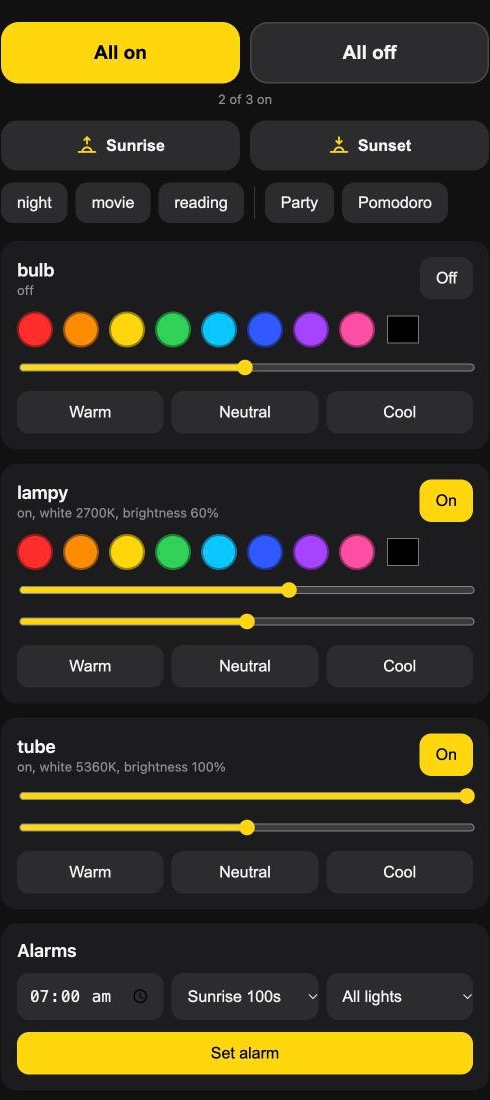
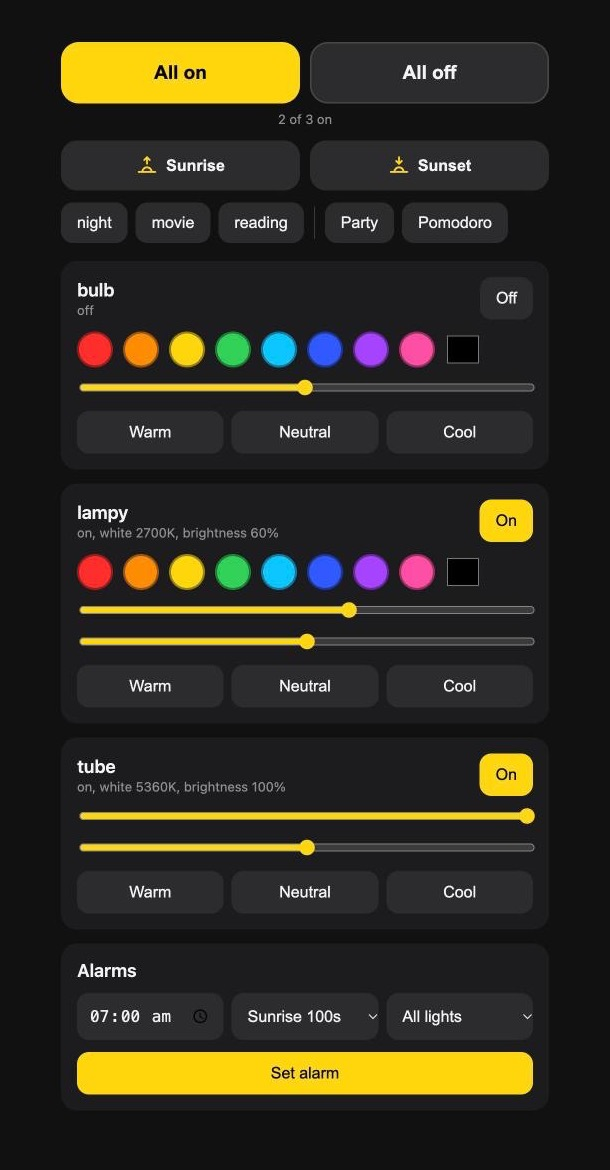
README: centre the screenshot and give it margins

diff --git a/README.md b/README.md
@@ -10,7 +10,9 @@ $ lights party 30s                # random colours, then everything is put back
 $ lights serve                    # a page like this for your phone
 ```
 
-<img src="docs/phone.jpg" alt="The phone page: one card per light, plus alarms" width="300">
+<p align="center">
+  <img src="docs/phone.jpg" alt="The phone page: one card per light, plus alarms" width="320">
+</p>
 
 - **Local.** Commands go straight to the lights over your Wi-Fi, so it works when the internet is down.
 - **One tool for different brands.** Tuya / Smart Life lights (Wipro and many others, including white-only tubelights) and the Xiaomi Mi Bedside Lamp 2 (Yeelight protocol over miIO).
